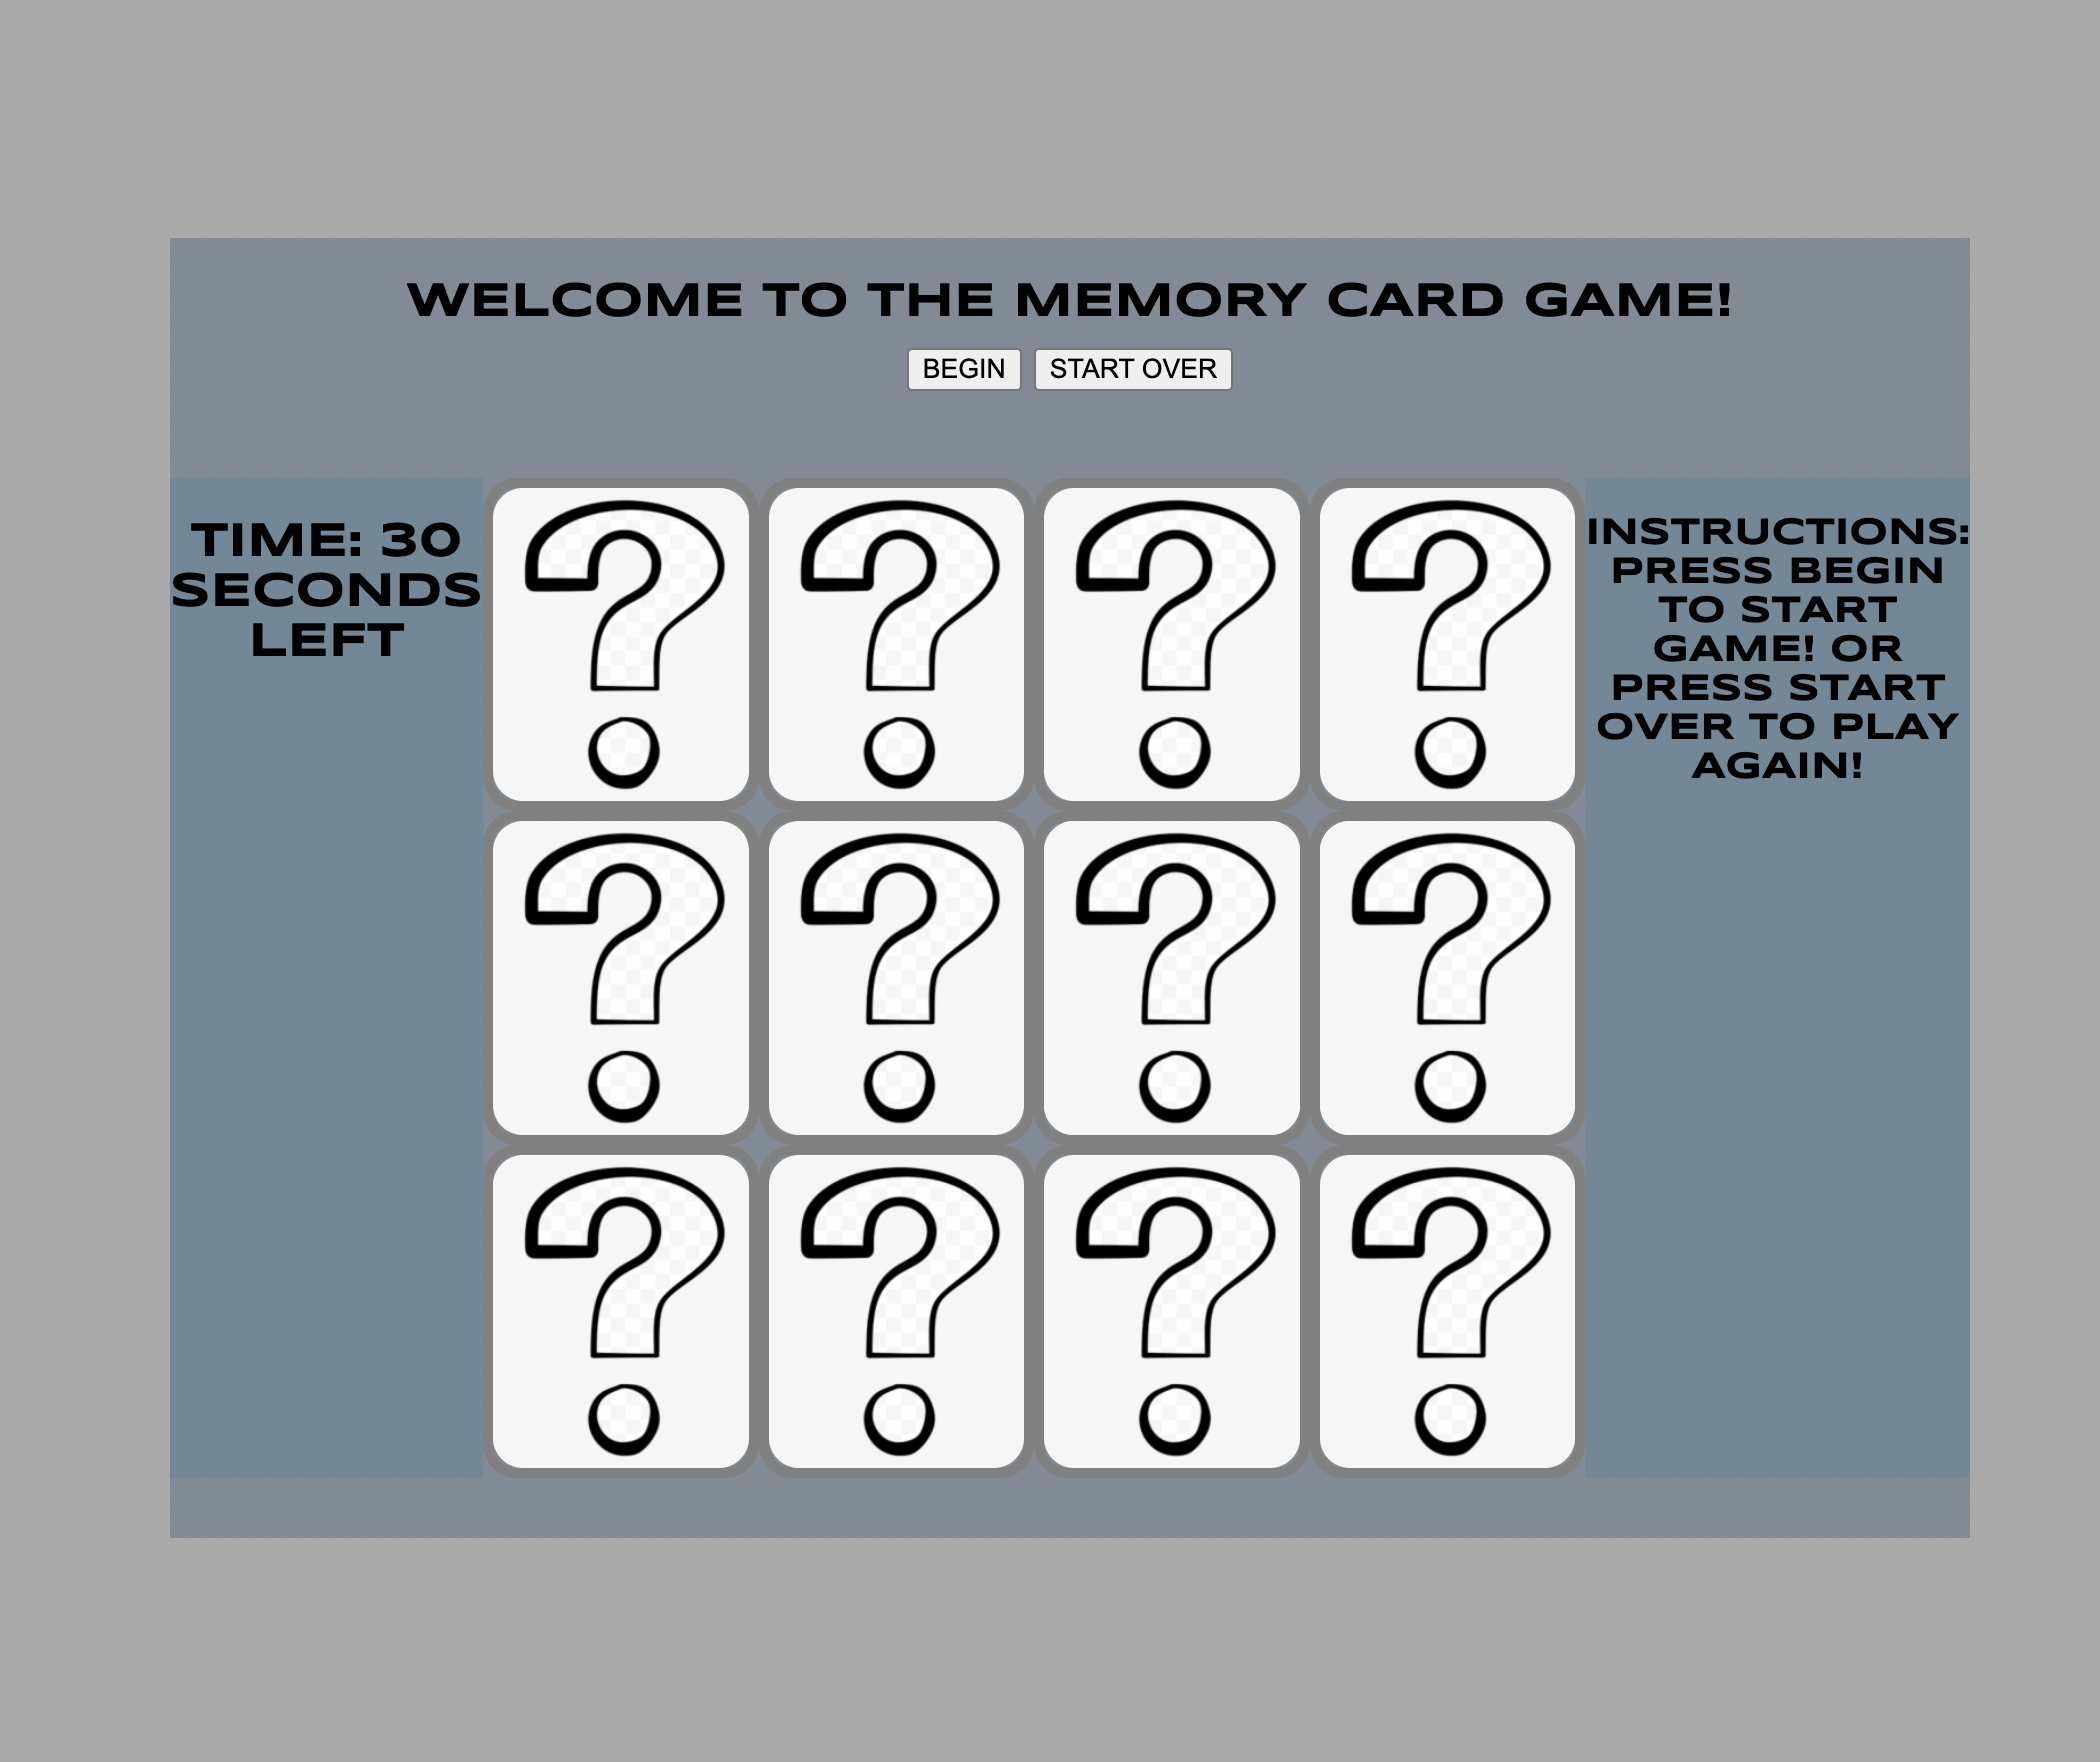
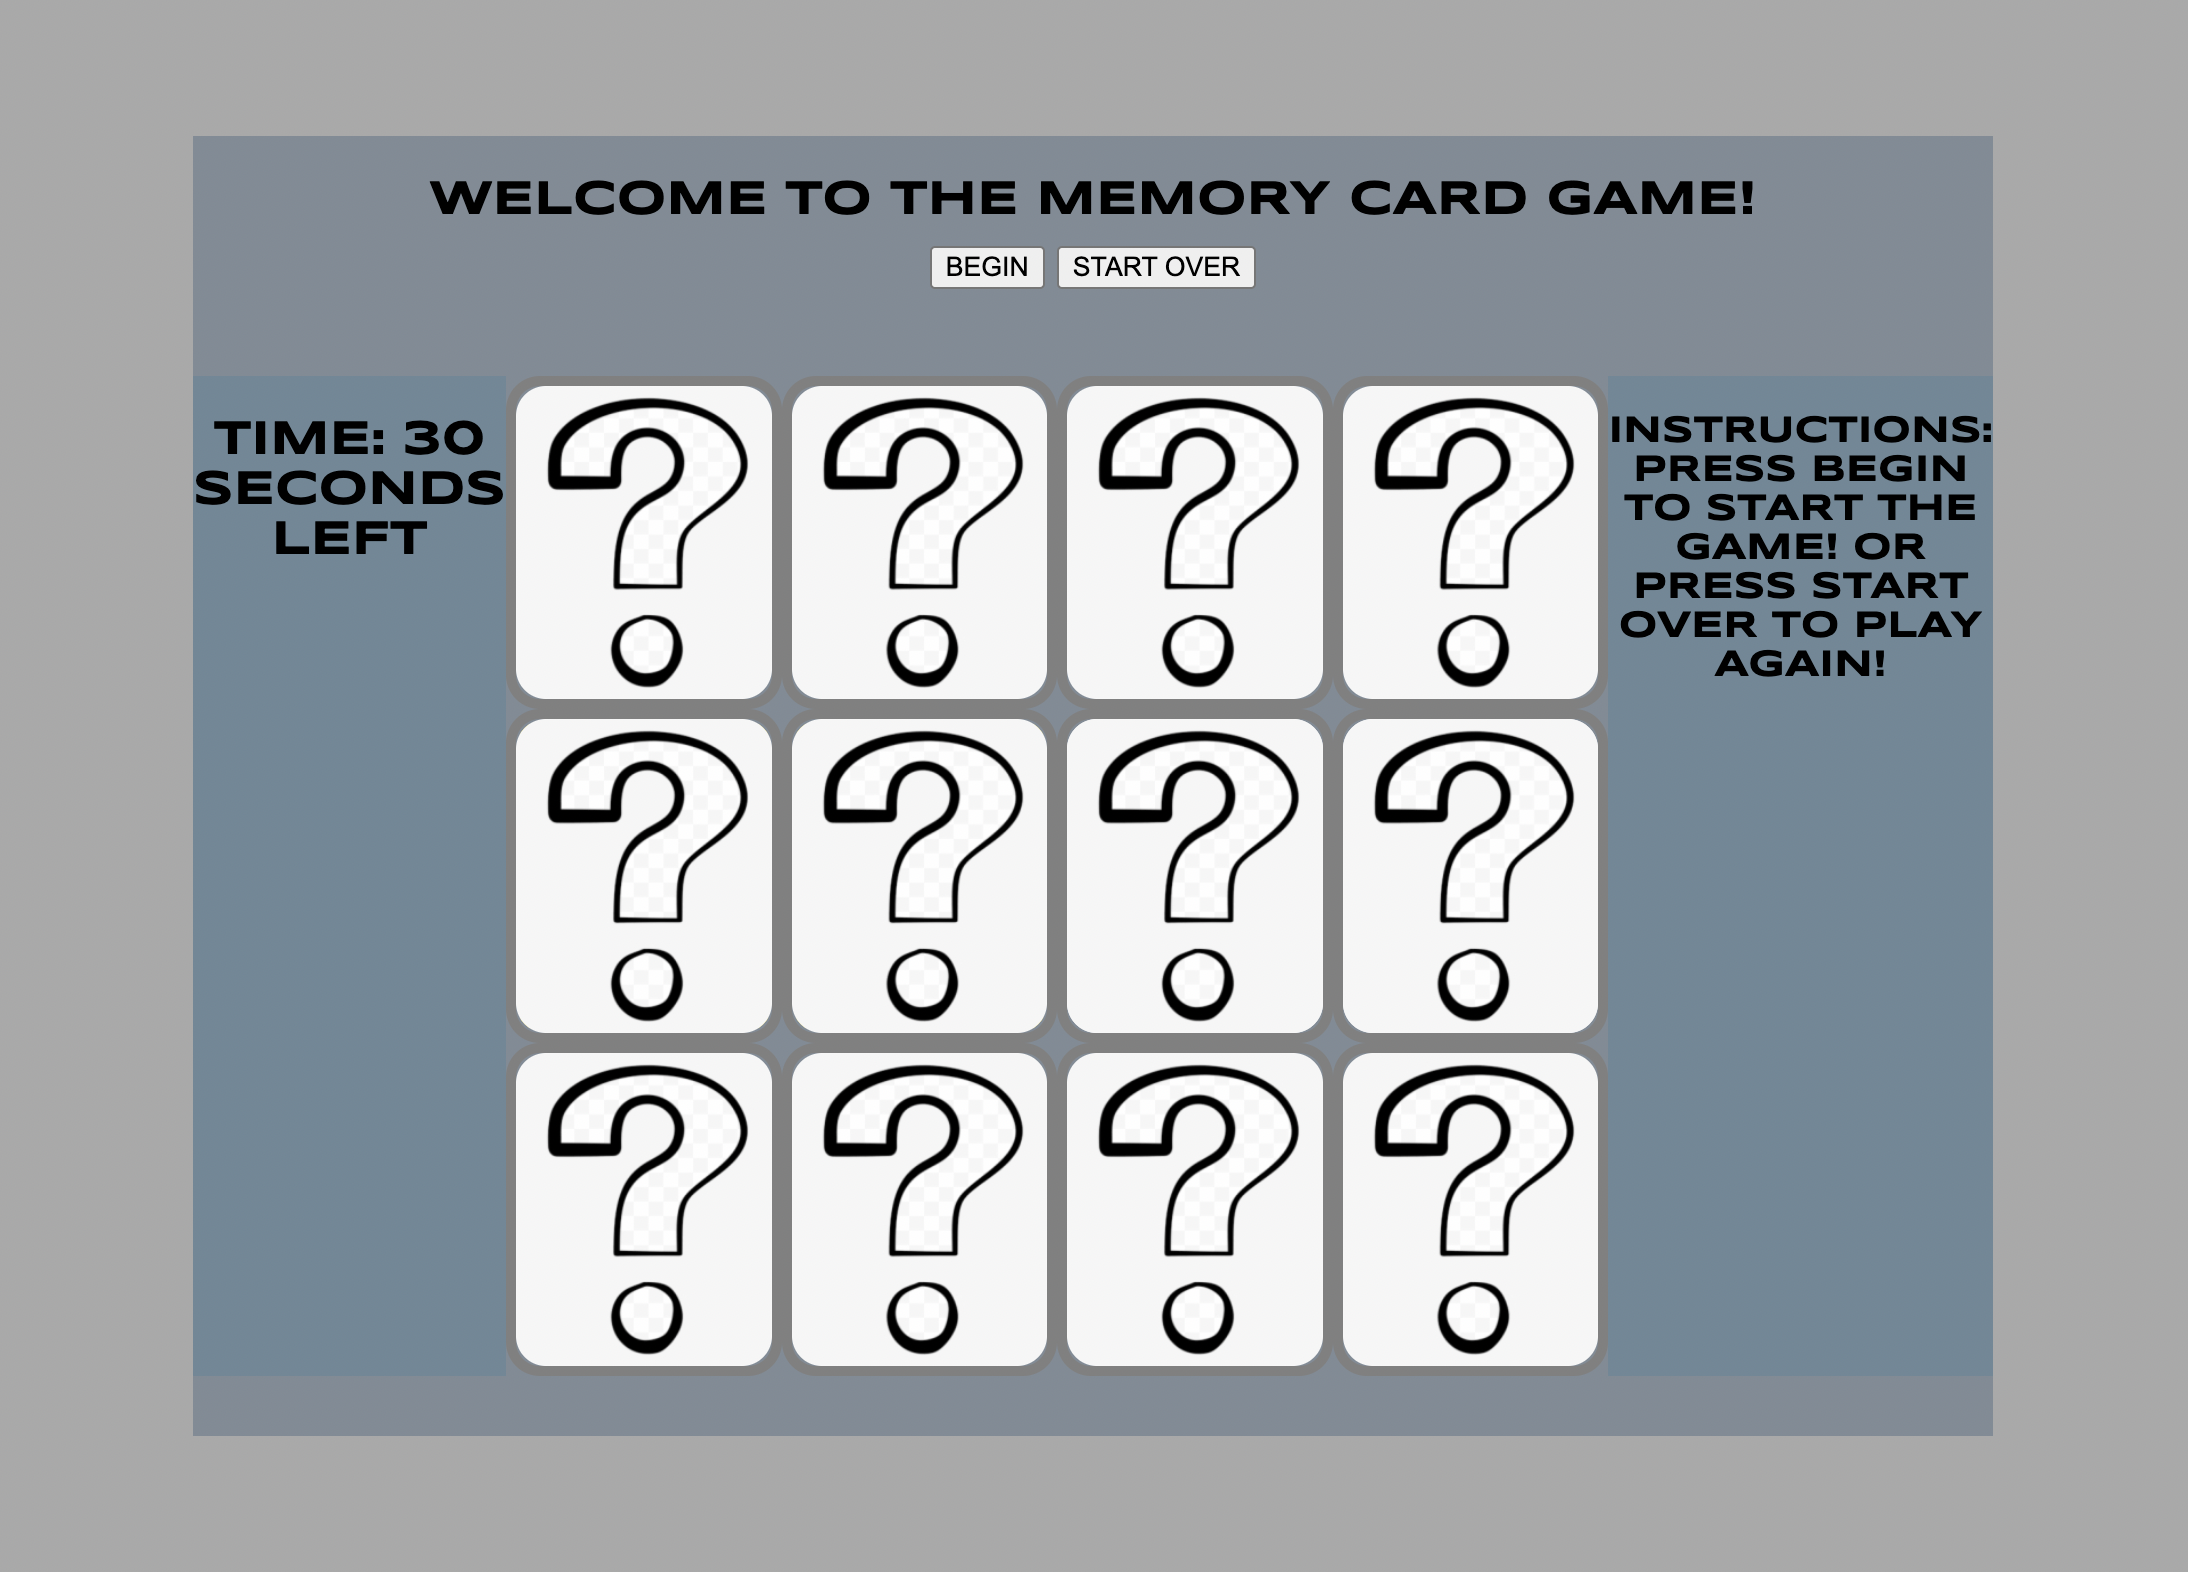
re upload screenshot

Changed region(s): [[0.0619, 0.0623, 0.9595, 0.9351]]

diff --git a/index.html b/index.html
@@ -82,7 +82,7 @@
             
         </div>
         <div id="message">
-            <h3>INSTRUCTIONS:  PRESS BEGIN TO START GAME! OR PRESS START OVER TO PLAY AGAIN!</h3>
+            <h3>INSTRUCTIONS: PRESS BEGIN TO START THE GAME! OR PRESS START OVER TO PLAY AGAIN!</h3>
         </div>
 
     </section>
